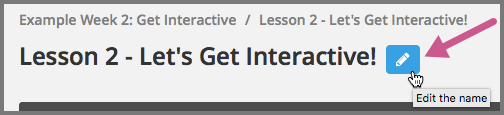
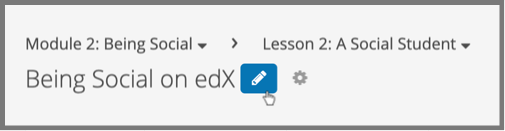
initial text changes to documentation for updated studio navigation changes

diff --git a/en_us/shared/developing_course/course_units.rst b/en_us/shared/developing_course/course_units.rst
@@ -51,7 +51,9 @@ circles and text to show different areas and controls in the page.
 #. A component in the unit.
 #. Options for testing the unit.
 #. Status panel for the unit.
-#. Location of the unit in the course outline.
+#. A unit navigation bar that shows where in the subsection this unit is located, and provides easy navigation options to nearby unit pages.
+#. A way to add new units to a subsection through the unit navigation bar.
+#. Navigation tools to quickly get to other sections or subsections.
 
 ****************************
 Viewing Units as a Learner
@@ -297,11 +299,11 @@ To create a unit from the outline, follow these steps.
 
 To create a unit from a unit page, follow these steps.
 
-#. In the **Unit Location** panel, select **New Unit**.
+#. In the **Unit Navigation Bar** area, select **New Unit**.
 
    .. image:: ../../../shared/images/unit_location.png
-    :alt: The Unit Location panel in the Unit page.
-    :width: 200
+    :alt: The Unit Navigation Bar in the Unit page.
+    :width: 660
 
    The unit page for the new unit opens automatically.
 
